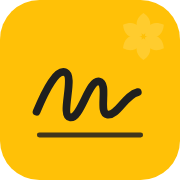
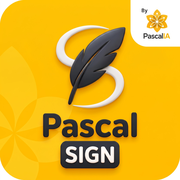
Pascal Sign: nuevo logotipo en íconos de la app (#28)
Claude-Session: https://claude.ai/code/session_015DrRr961xM1p7fCC2HnLG9

diff --git a/PascalSign/sw.js b/PascalSign/sw.js
@@ -1,5 +1,5 @@
 // Pascal Sign: funciona sin conexión y recibe PDF compartidos desde otras apps (Android).
-const VERSION = 'pascalsign-v2';
+const VERSION = 'pascalsign-v3';
 const COMPARTIDO = 'pascalsign-compartido';
 const BASE = [
   '/PascalSign/', '/PascalSign/manifest.webmanifest', '/PascalSign/icon-192.png', '/PascalSign/icon-512.png',
